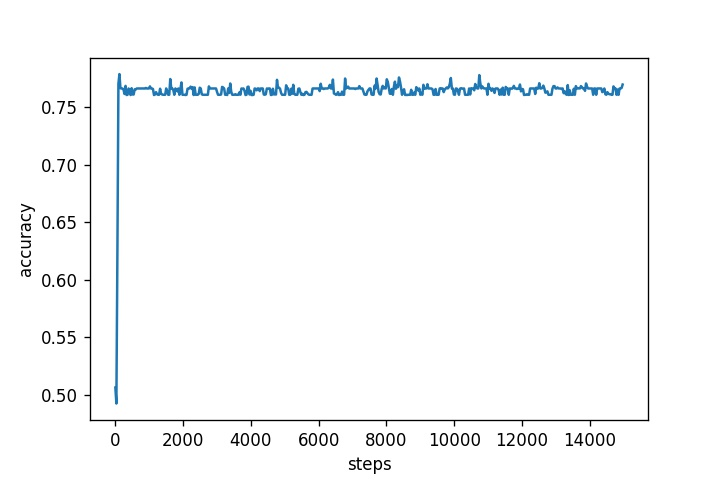
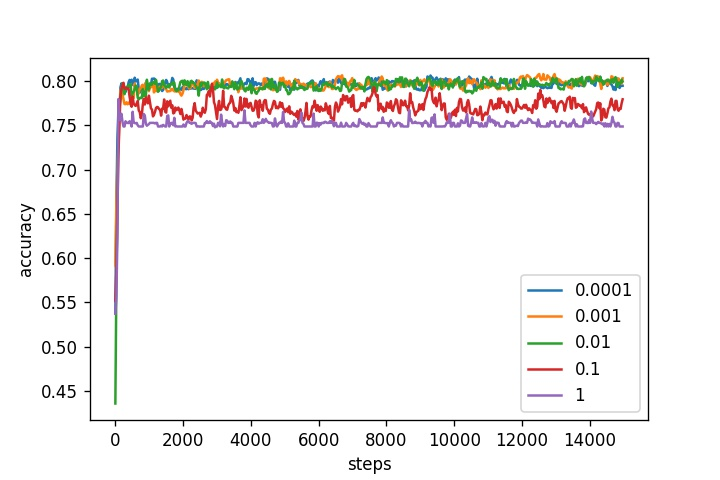
Change Code

diff --git a/main.py b/main.py
@@ -21,12 +21,10 @@ train_size  = math.ceil(data.shape[0]*0.9)
 train       = data[:train_size,:]
 validation  = data[train_size:,:]
 
-
 classifier = SVM(dims=6, reg=0.0001)
 classifier.train(data=train, seasons=50, val=validation)
 classifier.plot_all(reg="0.0001")
 
-'''
 classifier = SVM(dims=6, reg=0.001)
 classifier.train(data=train, seasons=50, val=validation)
 classifier.plot_all(reg="0.001")
@@ -34,15 +32,6 @@ classifier.plot_all(reg="0.001")
 classifier = SVM(dims=6, reg=0.01)
 classifier.train(data=train, seasons=50, val=validation)
 classifier.plot_all(reg="0.01")
-
-classifier = SVM(dims=6, reg=0.1)
-classifier.train(data=train, seasons=50, val=validation)
-classifier.plot_all(reg="0.1")
-
-classifier = SVM(dims=6, reg=1)
-classifier.train(data=train, seasons=50, val=validation)
-classifier.plot_all(reg="1")
-'''
 
 TestData = genfromtxt('test.txt',delimiter=',',dtype=str)
 X = TestData[:,CONTINOUS]
@@ -59,3 +48,12 @@ for i in predict_y:
     else:
         file.write(">50K\n")
 file.close()
+
+classifier = SVM(dims=6, reg=0.1)
+classifier.train(data=train, seasons=50, val=validation)
+classifier.plot_all(reg="0.1")
+
+classifier = SVM(dims=6, reg=1)
+classifier.train(data=train, seasons=50, val=validation)
+classifier.plot_all(reg="1")
+

diff --git a/SVM.py b/SVM.py
@@ -80,10 +80,10 @@ class SVM:
         x = np.arange(num_acc)*30
         sub1.set_xlabel("steps")
         sub1.set_ylabel("accuracy")
-        sub1.plot(x, self.acc)
+        sub1.plot(x, self.acc, label=reg)
+        sub1.legend()
         fig.savefig('1myimage'+reg+'.jpg', format='jpg', dpi=120)
-        
-        fig.clear()
+        #fig.clear()
         
         fig = plt.figure(2)
         sub2 = fig.add_subplot(111)
@@ -91,10 +91,10 @@ class SVM:
         x = np.arange(num_w)*30
         sub2.set_xlabel("steps")
         sub2.set_ylabel("magnitude of coefficient vector")
-        sub2.plot(x, self.w_magnitude)
+        sub2.plot(x, self.w_magnitude, label=reg)
+        sub2.legend()
         fig.savefig('2myimage'+reg+'.jpg', format='jpg', dpi=120)
-        
-        fig.clear()
+        #fig.clear()
 
 
             
